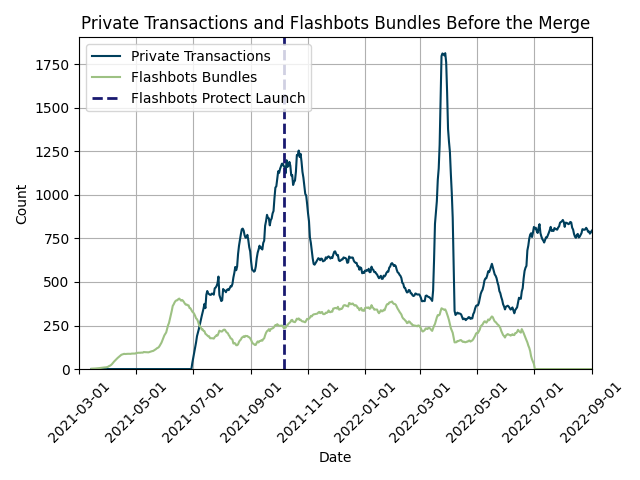
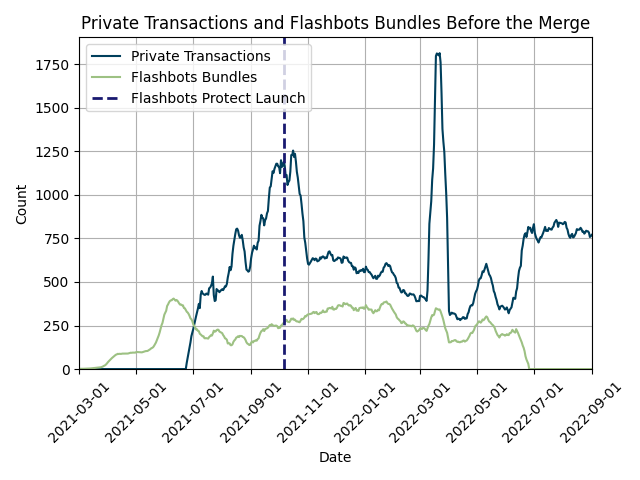
update plots with center rolling window

Changed region(s): [[0.625, 0.0938, 0.9375, 0.7188], [0.125, 0.3125, 0.625, 0.7812], [0.7812, 0.6875, 0.8438, 0.7812]]

diff --git a/section_5/5.1_private_big_picture/5.1.2_mev_activity/mev_and_swap.py b/section_5/5.1_private_big_picture/5.1.2_mev_activity/mev_and_swap.py
@@ -21,10 +21,10 @@ def aggregate_data(data):
         'sandwich_extractor_profit': 'sum',
         'liquid_extractor_profit': 'sum',
     }).reset_index()
-    data_by_date['private_tx_count'] = data_by_date['private_tx_count'].rolling(window=14).mean()
-    data_by_date['mev_tx_count'] = data_by_date['mev_tx_count'].rolling(window=14).mean()
-    data_by_date['swap_count'] = data_by_date['swap_count'].rolling(window=14).mean()
-    data_by_date['total_extractor_profit'] = data_by_date['total_extractor_profit'].rolling(window=14).mean()
+    data_by_date['private_tx_count'] = data_by_date['private_tx_count'].rolling(window=14, min_periods=7, center=True).mean()
+    data_by_date['mev_tx_count'] = data_by_date['mev_tx_count'].rolling(window=14, min_periods=7, center=True).mean()
+    data_by_date['swap_count'] = data_by_date['swap_count'].rolling(window=14, min_periods=7, center=True).mean()
+    data_by_date['total_extractor_profit'] = data_by_date['total_extractor_profit'].rolling(window=14, min_periods=7, center=True).mean()
 
     # Summing specific profits to create a new column
     data_by_date['total_extractor_profit_without_swaps'] = (
@@ -32,7 +32,7 @@ def aggregate_data(data):
         data_by_date['sandwich_extractor_profit'] + 
         data_by_date['liquid_extractor_profit']
     )
-    data_by_date['total_extractor_profit_without_swaps'] = data_by_date['total_extractor_profit_without_swaps'].rolling(window=14).mean()
+    data_by_date['total_extractor_profit_without_swaps'] = data_by_date['total_extractor_profit_without_swaps'].rolling(window=14, min_periods=7, center=True).mean()
 
     return data_by_date
 

diff --git a/section_5/5.3_post_merge/5.3.1_private_ofa/private_ofa.py b/section_5/5.3_post_merge/5.3.1_private_ofa/private_ofa.py
@@ -14,14 +14,14 @@ def aggregate_data(data):
         'private_tx_count' : 'sum',
         'fb_postmerge_tx_count': 'sum',
     }).reset_index()
-    data_by_date['private_tx_count'] = data_by_date['private_tx_count'].rolling(window=14).mean()
-    data_by_date['fb_postmerge_tx_count'] = data_by_date['fb_postmerge_tx_count'].rolling(window=14).mean()
+    data_by_date['private_tx_count'] = data_by_date['private_tx_count'].rolling(window=14, min_periods=7, center=True).mean()
+    data_by_date['fb_postmerge_tx_count'] = data_by_date['fb_postmerge_tx_count'].rolling(window=14, min_periods=7, center=True).mean()
     return data_by_date
 
 def plot_data(data, mev_blocker_data, filepath):
     fig, ax1 = plt.subplots()
 
-    mev_blocker_data['mined'] = mev_blocker_data['mined'].rolling(window=14).mean()
+    mev_blocker_data['mined'] = mev_blocker_data['mined'].rolling(window=14, min_periods=7, center=True).mean()
 
     # Plotting only on the primary axis, ax1
     line1, = ax1.plot(data['block_date'], data['private_tx_count'], linestyle='-', color='#003f5c', label='Private Transactions') # deep blue
@@ -62,7 +62,7 @@ def plot_data(data, mev_blocker_data, filepath):
 
 def plot_data_double_axis(data, mev_blocker_data, filepath):
     # Smoothing data
-    mev_blocker_data['mined'] = mev_blocker_data['mined'].rolling(window=14).mean()
+    mev_blocker_data['mined'] = mev_blocker_data['mined'].rolling(window=14, min_periods=7, center=True).mean()
 
     fig, ax1 = plt.subplots()
 

diff --git a/section_5/5.3_post_merge/5.3.2_mev_and_ofa/mev_ofa.py b/section_5/5.3_post_merge/5.3.2_mev_and_ofa/mev_ofa.py
@@ -18,8 +18,8 @@ def aggregate_data(data):
         'liquid_extractor_profit': 'sum',
         'fb_postmerge_tx_count' : 'sum',
     }).reset_index()
-    data_by_date['mev_tx_count'] = data_by_date['mev_tx_count'].rolling(window=14).mean()
-    data_by_date['fb_postmerge_tx_count'] = data_by_date['fb_postmerge_tx_count'].rolling(window=14).mean()
+    data_by_date['mev_tx_count'] = data_by_date['mev_tx_count'].rolling(window=14, min_periods=7, center=True).mean()
+    data_by_date['fb_postmerge_tx_count'] = data_by_date['fb_postmerge_tx_count'].rolling(window=14, min_periods=7, center=True).mean()
     
     data_by_date['total_extractor_profit_without_swaps'] = (
         data_by_date['arb_extractor_profit'] + 
@@ -35,7 +35,7 @@ def thousands_formatter(x, pos):
 
 def plot_data_double_axis(data, mev_blocker_data, filepath):
     # Smoothing data
-    mev_blocker_data['mined'] = mev_blocker_data['mined'].rolling(window=14).mean()
+    mev_blocker_data['mined'] = mev_blocker_data['mined'].rolling(window=14, min_periods=7, center=True).mean()
     
     fig, ax1 = plt.subplots()
 

diff --git a/section_5/5.2_pre_merge/5.2.1_private_FB/private_vs_FB.py b/section_5/5.2_pre_merge/5.2.1_private_FB/private_vs_FB.py
@@ -16,9 +16,9 @@ def aggregate_data(data):
         'flashbots_bundle_count' : 'sum',
         # 'flashbots_exclusive_transaction_count': 'sum',
     }).reset_index()
-    data_by_date['private_tx_count'] = data_by_date['private_tx_count'].rolling(window=14).mean()
-    data_by_date['flashbots_bundle_count'] = data_by_date['flashbots_bundle_count'].rolling(window=14).mean()
-    # data_by_date['flashbots_exclusive_transaction_count'] = data_by_date['flashbots_exclusive_transaction_count'].rolling(window=14).mean()
+    data_by_date['private_tx_count'] = data_by_date['private_tx_count'].rolling(window=14, min_periods=7, center=True).mean()
+    data_by_date['flashbots_bundle_count'] = data_by_date['flashbots_bundle_count'].rolling(window=14, min_periods=7, center=True).mean()
+    # data_by_date['flashbots_exclusive_transaction_count'] = data_by_date['flashbots_exclusive_transaction_count'].rolling(window=14, min_periods=7, center=True).mean()
     return data_by_date
 
 def plot_data_double_axis(data, filepath):

diff --git a/section_5/5.2_pre_merge/5.2.2_FB_and_mev/profit_mev_fb.py b/section_5/5.2_pre_merge/5.2.2_FB_and_mev/profit_mev_fb.py
@@ -19,9 +19,9 @@ def aggregate_data(data):
         'sandwich_extractor_profit': 'sum',
         'liquid_extractor_profit': 'sum',
     }).reset_index()
-    data_by_date['flashbots_bundle_count'] = data_by_date['flashbots_bundle_count'].rolling(window=14).mean()
-    data_by_date['mev_tx_count'] = data_by_date['mev_tx_count'].rolling(window=14).mean()
-    data_by_date['total_extractor_profit'] = data_by_date['total_extractor_profit'].rolling(window=14).mean()
+    data_by_date['flashbots_bundle_count'] = data_by_date['flashbots_bundle_count'].rolling(window=14, min_periods=7, center=True).mean()
+    data_by_date['mev_tx_count'] = data_by_date['mev_tx_count'].rolling(window=14, min_periods=7, center=True).mean()
+    data_by_date['total_extractor_profit'] = data_by_date['total_extractor_profit'].rolling(window=14, min_periods=7, center=True).mean()
     
         # Summing specific profits to create a new column
     data_by_date['total_extractor_profit_without_swaps'] = (

diff --git a/section_5/5.4_damage/gasprice.py b/section_5/5.4_damage/gasprice.py
@@ -16,9 +16,9 @@ def aggregate_data(data):
         'median_gasprice_gwei' : 'median',
         'private_gasused_pct' : 'median',
     }).reset_index()
-    data_by_date['private_tx_count'] = data_by_date['private_tx_count'].rolling(window=14).mean()
-    data_by_date['private_gasused_pct'] = data_by_date['private_gasused_pct'].rolling(window=14).mean()
-    data_by_date['median_gasprice_gwei'] = data_by_date['median_gasprice_gwei'].rolling(window=14).mean()
+    data_by_date['private_tx_count'] = data_by_date['private_tx_count'].rolling(window=14, min_periods=7, center=True).mean()
+    data_by_date['private_gasused_pct'] = data_by_date['private_gasused_pct'].rolling(window=14, min_periods=7, center=True).mean()
+    data_by_date['median_gasprice_gwei'] = data_by_date['median_gasprice_gwei'].rolling(window=14, min_periods=7, center=True).mean()
     return data_by_date
 
 def plot_data(data, filepath):

diff --git a/section_5/5.4_damage/inclusion_time.py b/section_5/5.4_damage/inclusion_time.py
@@ -16,9 +16,9 @@ def aggregate_data(data):
         'median_timepending' : 'median',
         'private_gasused_pct': 'median',
     }).reset_index()
-    data_by_date['private_tx_count'] = data_by_date['private_tx_count'].rolling(window=14).mean()
-    data_by_date['median_timepending'] = data_by_date['median_timepending'].rolling(window=14).mean()
-    data_by_date['private_gasused_pct'] = data_by_date['private_gasused_pct'].rolling(window=14).mean()
+    data_by_date['private_tx_count'] = data_by_date['private_tx_count'].rolling(window=14, min_periods=7, center=True).mean()
+    data_by_date['median_timepending'] = data_by_date['median_timepending'].rolling(window=14, min_periods=7, center=True).mean()
+    data_by_date['private_gasused_pct'] = data_by_date['private_gasused_pct'].rolling(window=14, min_periods=7, center=True).mean()
 
     return data_by_date
 

diff --git a/section_5/5.1_private_big_picture/5.1.2_mev_activity/mev_types.py b/section_5/5.1_private_big_picture/5.1.2_mev_activity/mev_types.py
@@ -19,9 +19,9 @@ def aggregate_data(data):
     'mev_tx_count': 'sum'
     }).reset_index()
     # Apply a 14-day rolling average to the raw counts.
-    aggregated_data["arb_count"] = aggregated_data["arb_count"].rolling(window=14, min_periods=1).mean()
+    aggregated_data["arb_count"] = aggregated_data["arb_count"].rolling(window=14, min_periods=7, center=True).mean()
     # aggregated_data["liquid_count"] = aggregated_data["liquid_count"].rolling(window=3, min_periods=1).median()
-    aggregated_data["sandwich_count"] = aggregated_data["sandwich_count"].rolling(window=14, min_periods=1).mean()
+    aggregated_data["sandwich_count"] = aggregated_data["sandwich_count"].rolling(window=14, min_periods=7, center=True).mean()
 
     return aggregated_data
 

diff --git a/section_5/5.1_private_big_picture/5.1.1_private_tx/private_pct.py b/section_5/5.1_private_big_picture/5.1.1_private_tx/private_pct.py
@@ -15,8 +15,8 @@ def aggregate_data(data):
         'private_tx_pct' : 'median',
         'private_gasused_pct' : 'median',
     }).reset_index()
-    data_by_date['private_tx_pct'] = data_by_date['private_tx_pct'].rolling(window=14).mean()
-    data_by_date['private_gasused_pct'] = data_by_date['private_gasused_pct'].rolling(window=14).mean()
+    data_by_date['private_tx_pct'] = data_by_date['private_tx_pct'].rolling(window=14, min_periods=7, center=True).mean()
+    data_by_date['private_gasused_pct'] = data_by_date['private_gasused_pct'].rolling(window=14, min_periods=7, center=True).mean()
     return data_by_date
 
 def plot_data(data_by_date, filepath):
